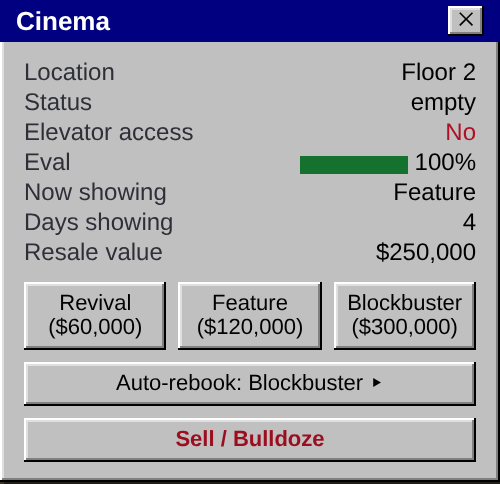
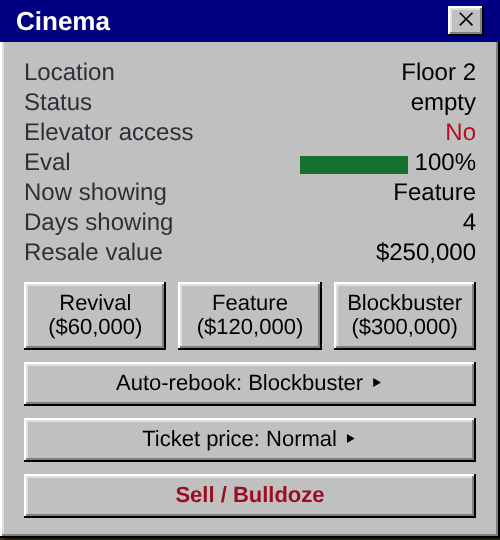
Show a Modern theater's ticket price on its card (#1950)
The theater card gains a "Ticket price" button that steps through the
catalog's steps, cheapest first, and names the one the theater charges.
The card decoder reads the new unitCard slot, the help page says when to
raise or lower the price, and the Modern cinema screenshot shows the
button. Classic cards have none.

Claude-Session: https://claude.ai/code/session_01Ms7trYm7fs4GLC5u5L3Gtn

Changed region(s): [[0.0, 0.0, 1.0, 0.9607], [0.0, 0.9917, 1.0, 1.0]]

diff --git a/src/ui/templates/helpContent.ts b/src/ui/templates/helpContent.ts
@@ -59,7 +59,7 @@ export const HELP_SECTIONS: readonly HelpSection[] = [
         <li><b>Take out the trash.</b> One <b>Recycling Center</b> processes ~2,500 population. It visibly fills through the day and a garbage truck empties it each morning. Outgrow your centers and 4★ locks until you build more.</li>
         <li><b>Win.</b> At 5★ with a Metro station, build the <b>Wedding Hall</b> (28 tiles wide and five floors tall) on floor 100 and pass the VIP inspection. The <b>TOWER</b> rank needs 15,000 occupants: office workers, residents, and venue customers. Hotel guests don't count at this stage, even when dining.</li>
         <li><b>Parking</b> spaces only work when they touch a <b>Parking Ramp</b> or a connected space. Chain them off a ramp, or they sit empty. Offices want a space per ~24 workers (one per four offices) from 3★, and every hotel suite needs one of its own (the VIP drives).</li>
-        <li><b>Keep the films fresh.</b> A theater's audience falls as its film gets older. In Classic, inspect the theater and show a <b>New film</b> to fill it again, or a cheaper <b>Classic film</b> that never draws a full house. In Modern, pay once for a <b>Revival</b>, a <b>Feature</b> or a <b>Blockbuster</b>. A film draws for four weeks, fades for two, and then the theater books its <b>Auto-rebook</b> film again. A blockbuster costs the most but earns far more (great in a busy tower, a money-loser in a quiet one), and a revival is the cheap, safe pick for a small tower.</li>
+        <li><b>Keep the films fresh.</b> A theater's audience falls as its film gets older. In Classic, inspect the theater and show a <b>New film</b> to fill it again, or a cheaper <b>Classic film</b> that never draws a full house. In Modern, pay once for a <b>Revival</b>, a <b>Feature</b> or a <b>Blockbuster</b>. A film draws for four weeks, fades for two, and then the theater books its <b>Auto-rebook</b> film again. A blockbuster costs the most but earns far more (great in a busy tower, a money-loser in a quiet one), and a revival is the cheap, safe pick for a small tower. A Modern theater's <b>Ticket price</b> runs from Low to Premium: raise it while the theater sells out, and lower it when seats sit empty.</li>
         <li><b>Find your way.</b> The <b>Map</b> window shows the whole tower, with a box around the part you're looking at. Click a spot on it to move the view there, or drag anywhere on it to slide the view. Close it with its ✕ and bring it back with the <b>Map</b> button.</li>
         <li><b>Map views.</b> The <b>View</b> menu at the top of the Map changes what it shows. <b>Edit</b> is the plain tower. <b>Hotel</b> marks in red the hotel rooms that need cleaning or have cockroaches, with a count of each, and refreshes once per game hour. <b>Eval</b> colors each rated room Excellent, Good or Terrible by how its tenants or guests rate it, and <b>Pricing</b> colors each priced room High, Average, Low or Very Low by its rent. Both count their rooms, follow a price change at once and update their ratings once per game hour. <b>Traffic</b> colors each floor Clear, Busy or Jammed by how crowded its walkways and elevators are (a jammed floor is one where tenants start to leave), and <b>Occupancy</b> colors each floor with tenants or guests Mostly full, Half full or Mostly empty. Both count their floors and refresh once per game hour and after you build.</li>
         <li><b>Price in bulk.</b> Inspect any office, condo or hotel room and use <b>“Set all …”</b> to re-price every unit of that kind at once (or reset them to the default). No need to edit each room. A preview shows how many change before you apply.</li>

diff --git a/src/catalog/catalogTypes.ts b/src/catalog/catalogTypes.ts
@@ -7,7 +7,7 @@
  */
 import type { CalendarKind } from "../shared/engineTypes";
 import type { FacilityCategory, FacilityKind, GameMode } from "../shared/types";
-import type { FilmPolicy, FilmTier } from "../simport/commands";
+import type { FilmPolicy, FilmTier, TicketPrice } from "../simport/commands";
 
 /** A film a theater can show, as the catalog publishes it (#1950). */
 export interface CatalogFilm {
@@ -24,6 +24,17 @@ export interface CatalogFilm {
 export interface CatalogFilmRebook {
   readonly policy: FilmPolicy;
   readonly film: FilmTier | null;
+}
+
+/** A ticket price step for a Modern theater (#1950): what it multiplies a
+ *  seat's ticket income by, and the share of the crowd's visits the theater
+ *  draws, both against Normal's 1. */
+export interface CatalogTicketPrice {
+  readonly key: TicketPrice;
+  /** What the card calls it ("Low", "Normal", ...). */
+  readonly label: string;
+  readonly incomeMult: number;
+  readonly pickMult: number;
 }
 
 /** The version of the catalog's shape. It moves when a field is added,
@@ -107,6 +118,13 @@ export interface CatalogEconomy {
   /** The policy a theater with none, or an old save's "auto", rebooks by,
    *  or null where no theater rebooks. */
   readonly filmRebookDefault: FilmPolicy | null;
+  /** A theater's ticket price steps, cheapest first, in the order the card's
+   *  button cycles through them (#1950); empty where the mode has none
+   *  (Classic). */
+  readonly ticketPrices: readonly CatalogTicketPrice[];
+  /** The step a theater with none set charges, or null where the mode has no
+   *  ticket price. */
+  readonly ticketPriceDefault: TicketPrice | null;
   /** Whether the player can switch automatic bridging off. When false,
    *  bridging is always on. When true, a tower starts bridged unless it was
    *  founded unbridged, and the live setting is per tower (the engine's
@@ -339,6 +357,15 @@ export function catalogFilmRebook(catalog: Catalog, policy: FilmPolicy | null | 
   const { filmRebooks, filmRebookDefault } = catalog.economy;
   const listed = (p: FilmPolicy | null | undefined) => filmRebooks.find((r) => r.policy === p);
   return listed(policy) ?? listed(filmRebookDefault) ?? null;
+}
+
+/** The ticket price step a theater charges: its own where the catalog lists
+ *  it, otherwise the mode's default. Null where the mode has no ticket price
+ *  (#1950). */
+export function catalogTicketPrice(catalog: Catalog, price: TicketPrice | null | undefined): CatalogTicketPrice | null {
+  const { ticketPrices, ticketPriceDefault } = catalog.economy;
+  const listed = (p: TicketPrice | null | undefined) => ticketPrices.find((t) => t.key === p);
+  return listed(price) ?? listed(ticketPriceDefault) ?? null;
 }
 
 /** Whether a facility is open in `hour` (the game hour; fractions and 24 read

diff --git a/src/game/editorActionsTicketPrice.test.ts b/src/game/editorActionsTicketPrice.test.ts
@@ -1,0 +1,58 @@
+import { describe, expect, it, vi } from "vitest";
+import { catalogFor } from "../tests/catalogFixture";
+import { office, rec, root, setup } from "./editorActions.fixture";
+
+vi.mock("../simport/headerClock", () => ({
+  clockOf: () => ({ hour: 9, isWeekend: true }),
+}));
+
+/** The theater card's ticket price button over a mock port (#1950): the
+ *  command it sends for each step, and what it does with the engine's
+ *  answer. What a price does to income and visits is the Rust engine's,
+ *  checked by `economy/tickets_tests.rs` and `rule_tests/venue_attendance.rs`. */
+
+describe("EditorActions: ticket price", () => {
+  it("steps a Modern theater's price through the catalog's steps, cheapest first, and wraps", async () => {
+    const { actions, cards, codes, deps, port } = setup(
+      { setTicketPrice: () => rec("setTicketPrice", true) },
+      undefined,
+      catalogFor("modern"),
+    );
+    for (const [now, next, label] of [
+      [null, "high", "High"],
+      ["low", "normal", "Normal"],
+      ["normal", "high", "High"],
+      ["high", "premium", "Premium"],
+      ["premium", "low", "Low"],
+    ] as const) {
+      cards.unit.mockReturnValueOnce({ id: office.id, kind: "cinema", ticketPrice: now });
+      await actions.handleEditAction("ticketPrice", root(""));
+      expect(port.setTicketPrice).toHaveBeenLastCalledWith(office.id, codes.code("ticketPrices", next));
+      expect(deps.announce).toHaveBeenLastCalledWith(`Ticket price set to ${label}.`);
+    }
+    expect(deps.captureUndo).toHaveBeenCalledWith("Ticket price");
+    expect(deps.refreshEditor).toHaveBeenCalledTimes(5);
+  });
+
+  it("refreshes without a sound or a toast when the engine refuses the price", async () => {
+    const { actions, cards, deps, port } = setup(
+      { setTicketPrice: () => rec("setTicketPrice", false) },
+      undefined,
+      catalogFor("modern"),
+    );
+    cards.unit.mockReturnValueOnce({ id: office.id, kind: "cinema", ticketPrice: "normal" });
+    await actions.handleEditAction("ticketPrice", root(""));
+    expect(port.setTicketPrice).toHaveBeenCalledOnce();
+    expect(deps.audio.sfx).not.toHaveBeenCalled();
+    expect(deps.announce).not.toHaveBeenCalled();
+    expect(deps.refreshEditor).toHaveBeenCalledOnce();
+  });
+
+  it("sends nothing where the mode has no ticket price (Classic)", async () => {
+    const { actions, cards, deps, port } = setup({ setTicketPrice: () => rec("setTicketPrice", true) });
+    cards.unit.mockReturnValueOnce({ id: office.id, kind: "cinema", ticketPrice: null });
+    await actions.handleEditAction("ticketPrice", root(""));
+    expect(port.setTicketPrice).not.toHaveBeenCalled();
+    expect(deps.refreshEditor).not.toHaveBeenCalled();
+  });
+});

diff --git a/src/simport/engineLifecycle.fixture.ts b/src/simport/engineLifecycle.fixture.ts
@@ -18,6 +18,7 @@ import {
   run,
   saved,
   slot,
+  ticketPrice,
   subject,
 } from "./engineSubject.fixture";
 import { scheduleSlots } from "./scheduleSlots";
@@ -305,6 +306,32 @@ export function describeEngineLifecycle(name: string, make: MakeEngine): void {
       expect([delta(set), slot("setFilm", set, "policyCode")]).toEqual([0, filmPolicy("blockbuster")]);
       expect(mustFind(saved(s).units, (u) => u.id === cinema).filmPolicy).toBe("blockbuster");
       expect(done(run(s, (p) => p.setFilm(office, filmPolicy("auto")), "a film for an office"))).toBe(false);
+    });
+
+    it("sets a Modern theater's ticket price as an undoable edit, and refuses it on an office and in Classic", () => {
+      const subjectIn = (m: "classic" | "modern") => {
+        const tower = newSeededDraft(7, m);
+        Object.assign(tower, { star: 3, money: 10_000_000 });
+        const s = subject(make, tower);
+        must(s, (p) => p.buildAt(kind("cinema"), 2, MID - 20), "cinema");
+        must(s, (p) => p.buildAt(kind("office"), 2, MID + 11), "office");
+        return s;
+      };
+      const s = subjectIn("modern");
+      const cinema = mustFind(s.reader.tower.units, (u) => u.kind === "cinema").id;
+      const office = mustFind(s.reader.tower.units, (u) => u.kind === "office").id;
+      const before = s.port.undoSignature();
+      const set = must(s, (p) => p.setTicketPrice(cinema, ticketPrice("premium")), "Premium");
+      expect([delta(set), slot("setTicketPrice", set, "priceCode")]).toEqual([0, ticketPrice("premium")]);
+      expect(s.port.undoSignature()).not.toBe(before);
+      expect(mustFind(saved(s).units, (u) => u.id === cinema).ticketPrice).toBe("premium");
+      must(s, (p) => p.setTicketPrice(cinema, ticketPrice("normal")), "Normal");
+      expect(mustFind(saved(s).units, (u) => u.id === cinema).ticketPrice).toBeUndefined();
+      expect(done(run(s, (p) => p.setTicketPrice(office, ticketPrice("low")), "a price for an office"))).toBe(false);
+      expect(done(run(s, (p) => p.setTicketPrice(cinema, 99), "an unknown step"))).toBe(false);
+      const classic = subjectIn("classic");
+      const theater = mustFind(classic.reader.tower.units, (u) => u.kind === "cinema").id;
+      expect(done(run(classic, (p) => p.setTicketPrice(theater, ticketPrice("low")), "a Classic price"))).toBe(false);
     });
 
     it("answers a stop the engine keeps (an endpoint, an express non-lobby floor) and changes nothing", () => {

diff --git a/src/simport/cards.test.ts b/src/simport/cards.test.ts
@@ -44,9 +44,10 @@ const OFFICE = record("unitCard", {
   blockbuster: NaN,
   filmDays: NaN,
   filmTier: NaN,
+  ticketPrice: NaN,
 });
 
-const CINEMA = record("unitCard", { id: 12, kindCode: code("kinds", "cinema"), rent: NaN, vacateReason: NaN, filmPolicy: code("filmPolicies", "blockbuster"), blockbuster: 1, filmDays: 4, filmTier: code("filmTiers", "classic") });
+const CINEMA = record("unitCard", { id: 12, kindCode: code("kinds", "cinema"), rent: NaN, vacateReason: NaN, filmPolicy: code("filmPolicies", "blockbuster"), blockbuster: 1, filmDays: 4, filmTier: code("filmTiers", "classic"), ticketPrice: code("ticketPrices", "premium") });
 
 /** A stop row: floor, then the served, lobby and endpoint flags. */
 const stop = (floor: number, served: number, lobby: number, endpoint: number) => [floor, served, lobby, endpoint];
@@ -80,17 +81,18 @@ describe("Cards.unit", () => {
       blockbuster: null,
       filmDays: null,
       filmTier: null,
+      ticketPrice: null,
     });
     expect(vi.mocked(port.unitCard).mock.calls).toEqual([[10]]);
     expect(vi.mocked(port.unitLabel).mock.calls).toEqual([[10]]);
     expect(vi.mocked(port.unitSubtype).mock.calls).toEqual([[10]]);
   });
 
-  it("carries a cinema's film policy, booking and film, and an empty label when the engine has none", () => {
+  it("carries a cinema's film policy, booking, film and ticket price, and an empty label when the engine has none", () => {
     const port = mockPort({ unitCard: () => CINEMA, unitLabel: () => undefined, unitSubtype: () => "art house" });
     const card = new Cards(port, readerAt(1, 0)).unit(12)!;
     expect([card.filmPolicy, card.blockbuster, card.rent, card.vacateReason, card.label, card.subtype]).toEqual(["blockbuster", true, null, null, "", "art house"]);
-    expect([card.filmDays, card.filmTier]).toEqual([4, "classic"]);
+    expect([card.filmDays, card.filmTier, card.ticketPrice]).toEqual([4, "classic", "premium"]);
   });
 
   it("answers undefined for an id the engine has no card for, reading no text", () => {

diff --git a/src/game/editorActions.ts b/src/game/editorActions.ts
@@ -1,5 +1,5 @@
 import { isElevatorKind, isHotelKind } from "../presentation/viewKinds";
-import { catalogFacility, catalogFilmRebook, filmEditAction } from "../catalog/catalogTypes";
+import { catalogFacility, catalogFilmRebook, catalogTicketPrice, filmEditAction } from "../catalog/catalogTypes";
 import { priceOptionsFor } from "../ui/catalogPricing";
 import type { FacilityKind } from "../shared/types";
 import type { BatchRentResult } from "../shared/engineTypes";
@@ -277,6 +277,7 @@ export class EditorActions {
       extendUp: "Extend",
       extendDown: "Extend",
       filmPolicy: "Film policy",
+      ticketPrice: "Ticket price",
       changeVariety: "Change variety",
       batchKind: "Edit",
     };
@@ -347,6 +348,20 @@ export class EditorActions {
           const next = order[(order.indexOf(now) + 1) % order.length].policy;
           engine.setFilm(u.id, codes.code("filmPolicies", next));
           this.deps.audio.sfx("click");
+          this.deps.refreshEditor();
+        }
+      } else if (action === "ticketPrice") {
+        // A Modern theater's ticket price (#1950): the button steps through
+        // the catalog's steps, cheapest first, from the one it charges now.
+        const catalog = kit.catalog();
+        const order = catalog.economy.ticketPrices;
+        const now = catalogTicketPrice(catalog, u.ticketPrice);
+        if (now) {
+          const next = order[(order.indexOf(now) + 1) % order.length];
+          if (outcome(engine, engine.setTicketPrice(u.id, codes.code("ticketPrices", next.key))).ok) {
+            this.deps.audio.sfx("click");
+            this.deps.announce(`Ticket price set to ${next.label}.`);
+          }
           this.deps.refreshEditor();
         }
       } else if (film) {

diff --git a/src/dualrun/catalog.ts b/src/dualrun/catalog.ts
@@ -92,11 +92,14 @@ const ECONOMY: Shape = {
   films: Array.isArray,
   filmRebooks: Array.isArray,
   filmRebookDefault: (v) => v === null || typeof v === "string",
+  ticketPrices: Array.isArray,
+  ticketPriceDefault: (v) => v === null || typeof v === "string",
   autoBridgeToggleable: bool,
 };
 const RULES: Shape = { variantHouseholds: bool, previewNamesRefusal: bool, scheduleAssist: bool, buildsWhilePaused: bool };
 const EXTERMINATOR: Shape = { calloutFee: amount, perRoomFee: amount };
 const FILM: Shape = { key: (v) => v === "new" || v === "classic" || v === "blockbuster", label: (v) => typeof v === "string", price: amount };
+const TICKET_PRICE: Shape = { key: text, label: text, incomeMult: positive, pickMult: positive };
 const FILM_REBOOK: Shape = { policy: (v) => typeof v === "string", film: (v) => v === null || v === "new" || v === "classic" || v === "blockbuster" };
 const CALENDAR: Shape = {
   key: oneOf("realWorld", "canon"),
@@ -188,6 +191,7 @@ function checkCatalog(c: Record<string, unknown>): void {
   if (economy.exterminator !== null) checkShape(economy.exterminator, EXTERMINATOR, "economy.exterminator");
   (economy.films as unknown[]).forEach((film, i) => checkShape(film, FILM, `economy.films[${i}]`));
   (economy.filmRebooks as unknown[]).forEach((r, i) => checkShape(r, FILM_REBOOK, `economy.filmRebooks[${i}]`));
+  (economy.ticketPrices as unknown[]).forEach((p, i) => checkShape(p, TICKET_PRICE, `economy.ticketPrices[${i}]`));
   const calendars = economy.calendars as unknown[];
   if (calendars.length === 0) refuse("economy.calendars", "no calendar");
   calendars.forEach((cal, i) => checkShape(cal, CALENDAR, `economy.calendars[${i}]`));

diff --git a/scripts/scenes/classic-vs-modern.ts b/scripts/scenes/classic-vs-modern.ts
@@ -84,8 +84,9 @@ export const CLASSIC_VS_MODERN_SCENES: Scene[] = [
     shots: [
       {
         // The theater's card under Modern: the film row, the three films at
-        // their prices and the Auto-rebook button (#1950). Fail closed if
-        // the Classic card rendered instead (no blockbuster to show).
+        // their prices, the Auto-rebook and the ticket price buttons (#1950).
+        // Fail closed if the Classic card rendered instead (no blockbuster
+        // to show).
         name: "cinema-card-modern",
         crop: "#editor",
         clock: 10,
@@ -101,6 +102,7 @@ export const CLASSIC_VS_MODERN_SCENES: Scene[] = [
           await page.waitForSelector('#editor [data-edit="filmPolicy"]', { timeout: 4000 });
           await page.evaluate(() => {
             if (!document.querySelector('#editor [data-edit="blockbusterFilm"]')) throw new Error("Modern card shows no blockbuster to book");
+            if (!document.querySelector('#editor [data-edit="ticketPrice"]')) throw new Error("Modern card shows no ticket price");
           });
         },
         wait: 300,
@@ -132,6 +134,7 @@ export const CLASSIC_VS_MODERN_SCENES: Scene[] = [
           await page.evaluate(() => {
             if (document.querySelector('#editor [data-edit="filmPolicy"]')) throw new Error("Classic card shows the Modern booking control");
             if (document.querySelector('#editor [data-edit="blockbusterFilm"]')) throw new Error("Classic card offers a blockbuster");
+            if (document.querySelector('#editor [data-edit="ticketPrice"]')) throw new Error("Classic card offers a ticket price");
           });
         },
         wait: 300,

diff --git a/src/ui/templates/editor.ts b/src/ui/templates/editor.ts
@@ -2,7 +2,7 @@ import { html, nothing, type TemplateResult } from "lit-html";
 import { keyed } from "lit-html/directives/keyed.js";
 import { isOperational, isTenanted } from "../../shared/unitState";
 import { isCommercialKind, isHotelKind } from "../../presentation/viewKinds";
-import { catalogFacility, catalogFilmRebook, filmEditAction, catalogHouseholdPrice, catalogOpenAt, catalogResidents, rungFor, type Catalog } from "../../catalog/catalogTypes";
+import { catalogFacility, catalogFilmRebook, catalogTicketPrice, filmEditAction, catalogHouseholdPrice, catalogOpenAt, catalogResidents, rungFor, type Catalog } from "../../catalog/catalogTypes";
 import type { TransportDetail, UnitDetail } from "../../simport/panels";
 import { priceOptionsFor } from "../catalogPricing";
 import { hasAccessDiagnostic } from "../../game/cardLines";
@@ -206,6 +206,11 @@ export function unitEditorTemplate(
   if (rebook) {
     const label = films.find((film) => film.key === rebook.film)?.label ?? "Off";
     actions.push(edRow(html`<button class="btn" data-edit="filmPolicy">Auto-rebook: ${label} ▸</button>`));
+  }
+  // The theater's ticket price (#1950), where the mode has one.
+  const ticket = u.kind === "cinema" ? catalogTicketPrice(catalog, u.ticketPrice) : null;
+  if (ticket) {
+    actions.push(edRow(html`<button class="btn" data-edit="ticketPrice">Ticket price: ${ticket.label} ▸</button>`));
   }
   // Canon retail reroll: only offer on shop / fastFood / restaurant. Legacy
   // retail units without a subtype still get the button so a player can opt

diff --git a/src/ui/templates/editor.test.ts b/src/ui/templates/editor.test.ts
@@ -201,6 +201,20 @@ describe("unit editor row and action branches", () => {
     expect(gutted.querySelector('[data-edit="newFilm"]')).toBeNull();
   });
 
+  it("modern cinema: names the ticket price it charges, Normal when it has none (#1950)", () => {
+    const modern = { mode: "modern" as const };
+    const price = (ticketPrice: UnitDetail["ticketPrice"]) =>
+      renderToFragment(unitEditor(unit("cinema", { ticketPrice }, "modern"), modern)).querySelector('[data-edit="ticketPrice"]')!.textContent;
+    expect([null, "low", "normal", "high", "premium"].map((p) => price(p as UnitDetail["ticketPrice"]))).toEqual([
+      "Ticket price: Normal ▸",
+      "Ticket price: Low ▸",
+      "Ticket price: Normal ▸",
+      "Ticket price: High ▸",
+      "Ticket price: Premium ▸",
+    ]);
+    expect(renderToFragment(unitEditor(unit("cinema"))).querySelector('[data-edit="ticketPrice"]')).toBeNull();
+  });
+
   it("classic cinema: shows the film and its days, and offers a new film or a classic at the catalog's prices", () => {
     const economy = catalogFor("classic").economy;
     const film = (classic: boolean) => renderToFragment(unitEditor(unit("cinema", { filmDays: 4, filmTier: classic ? "classic" : "new" })));

diff --git a/src/simport/engineSubject.fixture.ts b/src/simport/engineSubject.fixture.ts
@@ -47,6 +47,7 @@ export const mode = (name: "classic" | "modern"): number => codeIn(VIEW_LAYOUT.m
 export const calendar = (name: "canon" | "realWorld"): number => codeIn(VIEW_LAYOUT.calendars, name);
 export const logKind = (name: string): number => VIEW_LAYOUT.logKinds.indexOf(name);
 export const filmPolicy = (name: string): number => VIEW_LAYOUT.filmPolicies.indexOf(name);
+export const ticketPrice = (name: string): number => VIEW_LAYOUT.ticketPrices.indexOf(name);
 
 /** Slot `name` of `op`'s record. */
 export function slot(op: keyof typeof VIEW_LAYOUT.records, rec: PortRecord, name: string): number {
@@ -100,7 +101,7 @@ export interface SavedTower {
   founder?: boolean;
   towerName?: string;
   view?: { tile: number; floor: number; zoom?: number };
-  units: { id: number; kind: string; floor: number; x: number; rent?: number; label?: string; noRate?: boolean; filmPolicy?: string }[];
+  units: { id: number; kind: string; floor: number; x: number; rent?: number; label?: string; noRate?: boolean; filmPolicy?: string; ticketPrice?: string }[];
   transports: { id: number; skipFloors?: number[]; schedule?: Record<string, unknown> }[];
   log?: { text: string; kind: string }[];
 }

diff --git a/src/simport/portCodes.ts b/src/simport/portCodes.ts
@@ -3,7 +3,7 @@ import type { EnginePort, PortRecord } from "./enginePort";
 
 /** The code tables a caller passes names through, as `viewLayout()` names
  *  them. */
-export type CodeTable = "kinds" | "modes" | "calendars" | "filmPolicies" | "filmTiers" | "logKinds" | "heatModes";
+export type CodeTable = "kinds" | "modes" | "calendars" | "filmPolicies" | "filmTiers" | "ticketPrices" | "logKinds" | "heatModes";
 
 /** What a command's record says, in the shape the game's callers check. */
 export interface PortOutcome {
@@ -34,7 +34,7 @@ export class PortCodes {
 
   constructor(port: Pick<EnginePort, "viewLayout">) {
     const l = JSON.parse(port.viewLayout()) as Tables;
-    for (const t of ["kinds", "modes", "calendars", "filmPolicies", "filmTiers", "logKinds", "heatModes"] as const) {
+    for (const t of ["kinds", "modes", "calendars", "filmPolicies", "filmTiers", "ticketPrices", "logKinds", "heatModes"] as const) {
       this.maps.set(t, new Map(l[t].map((n, i) => [n, i])));
     }
     this.records = l.records;
